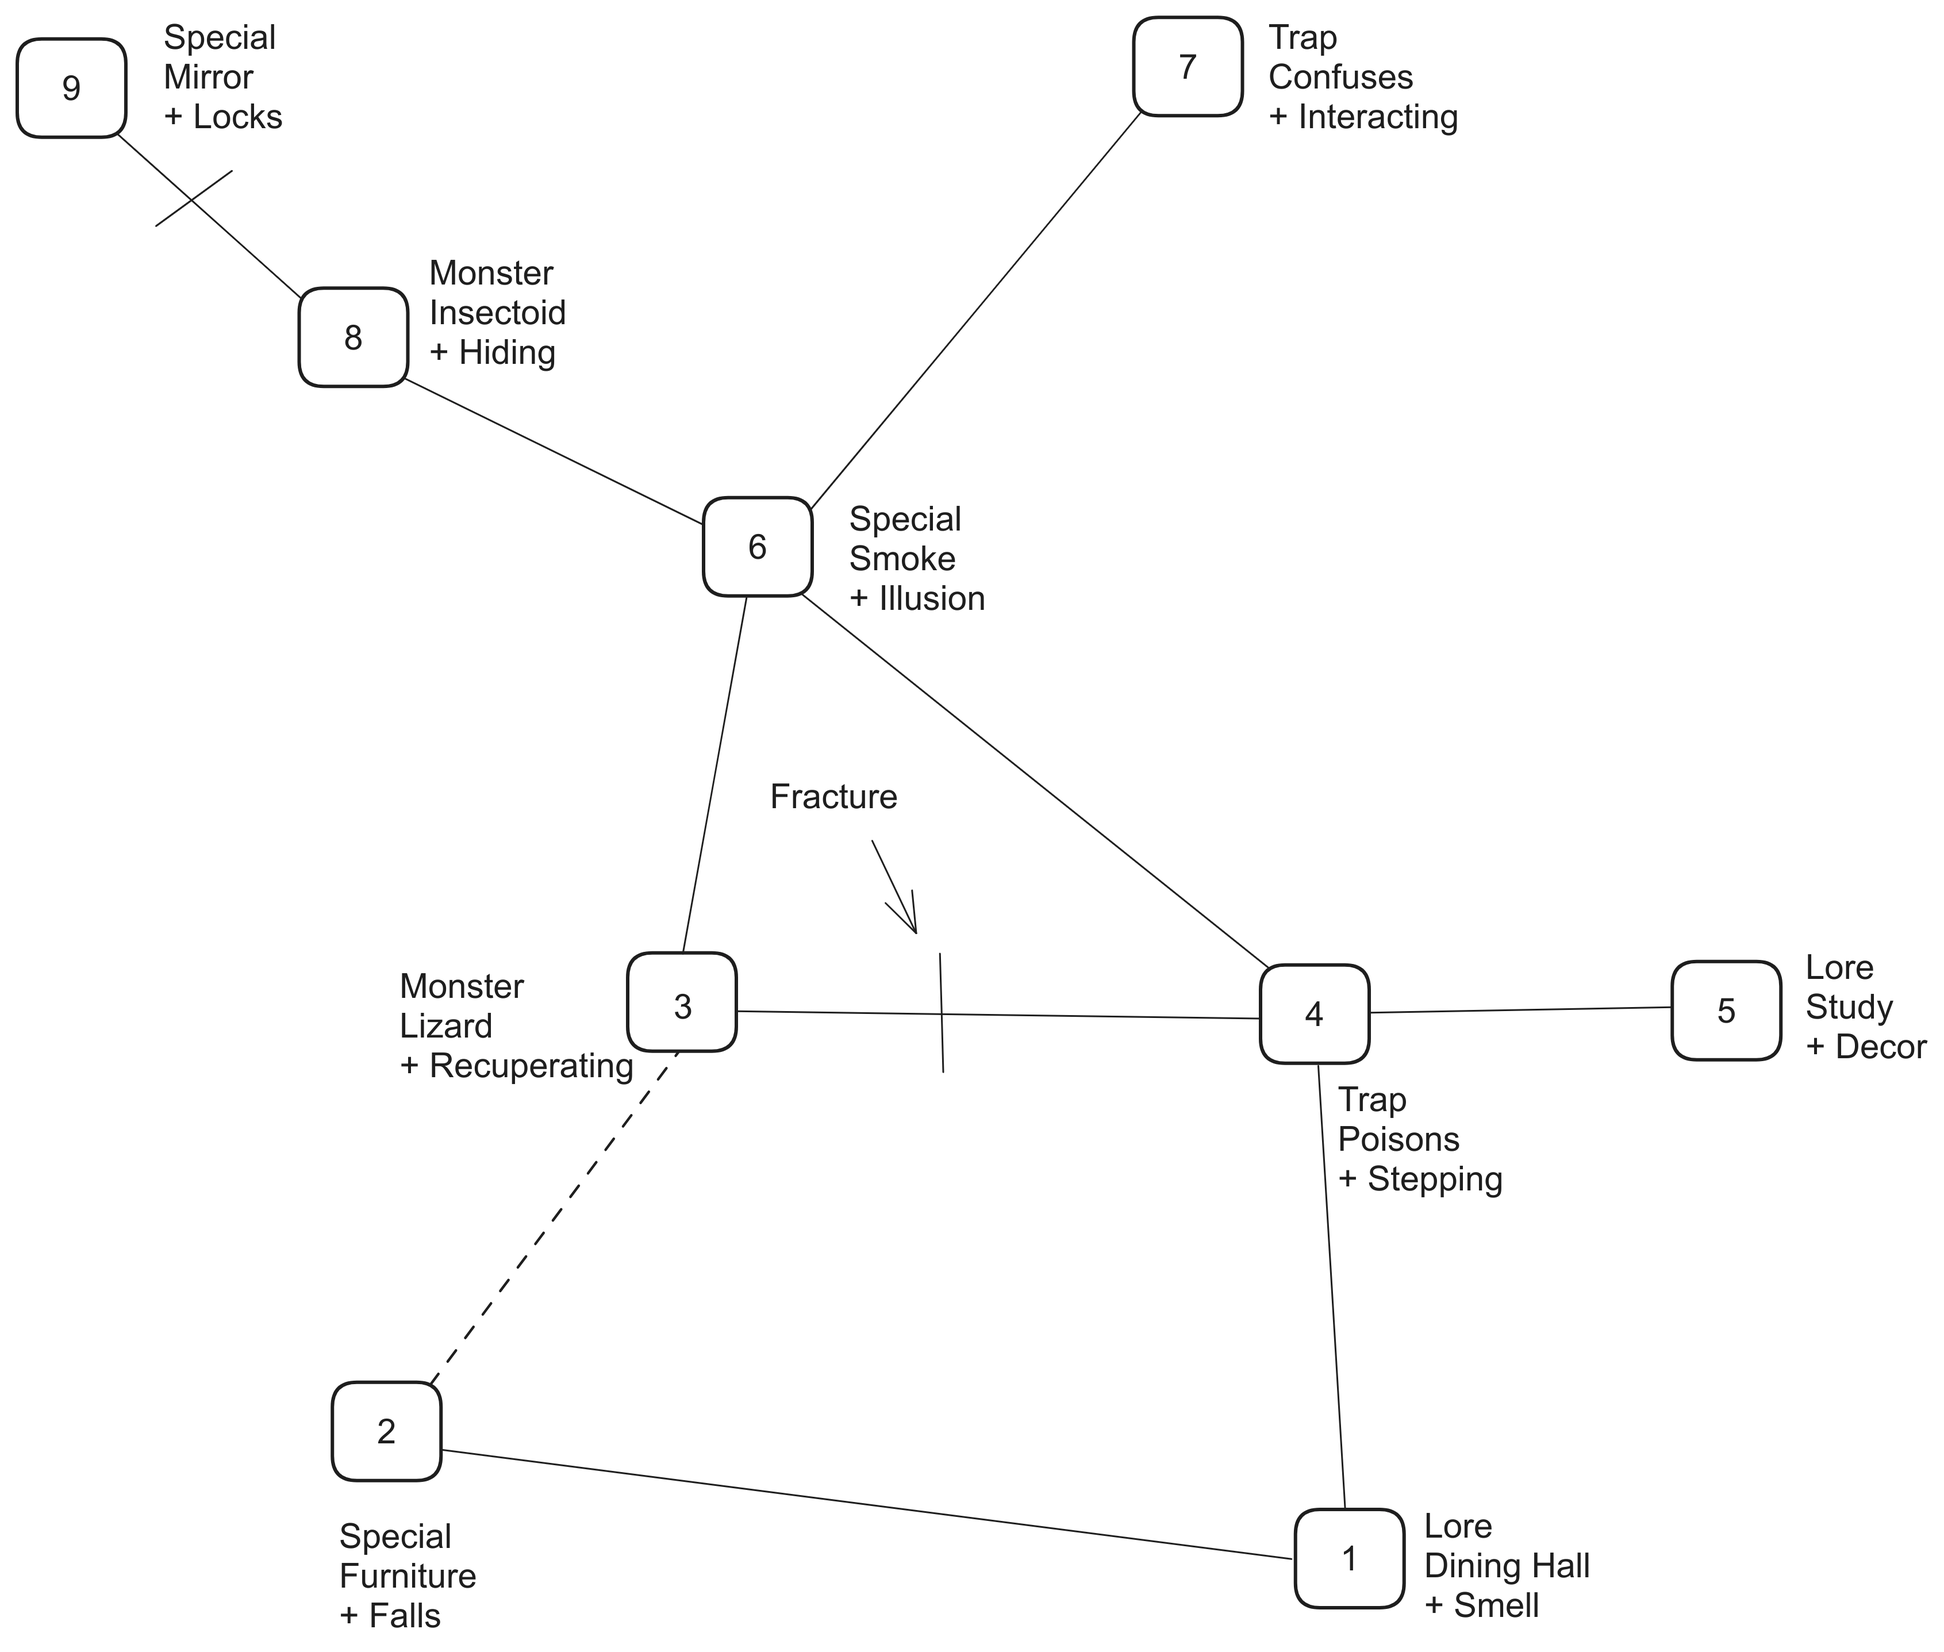
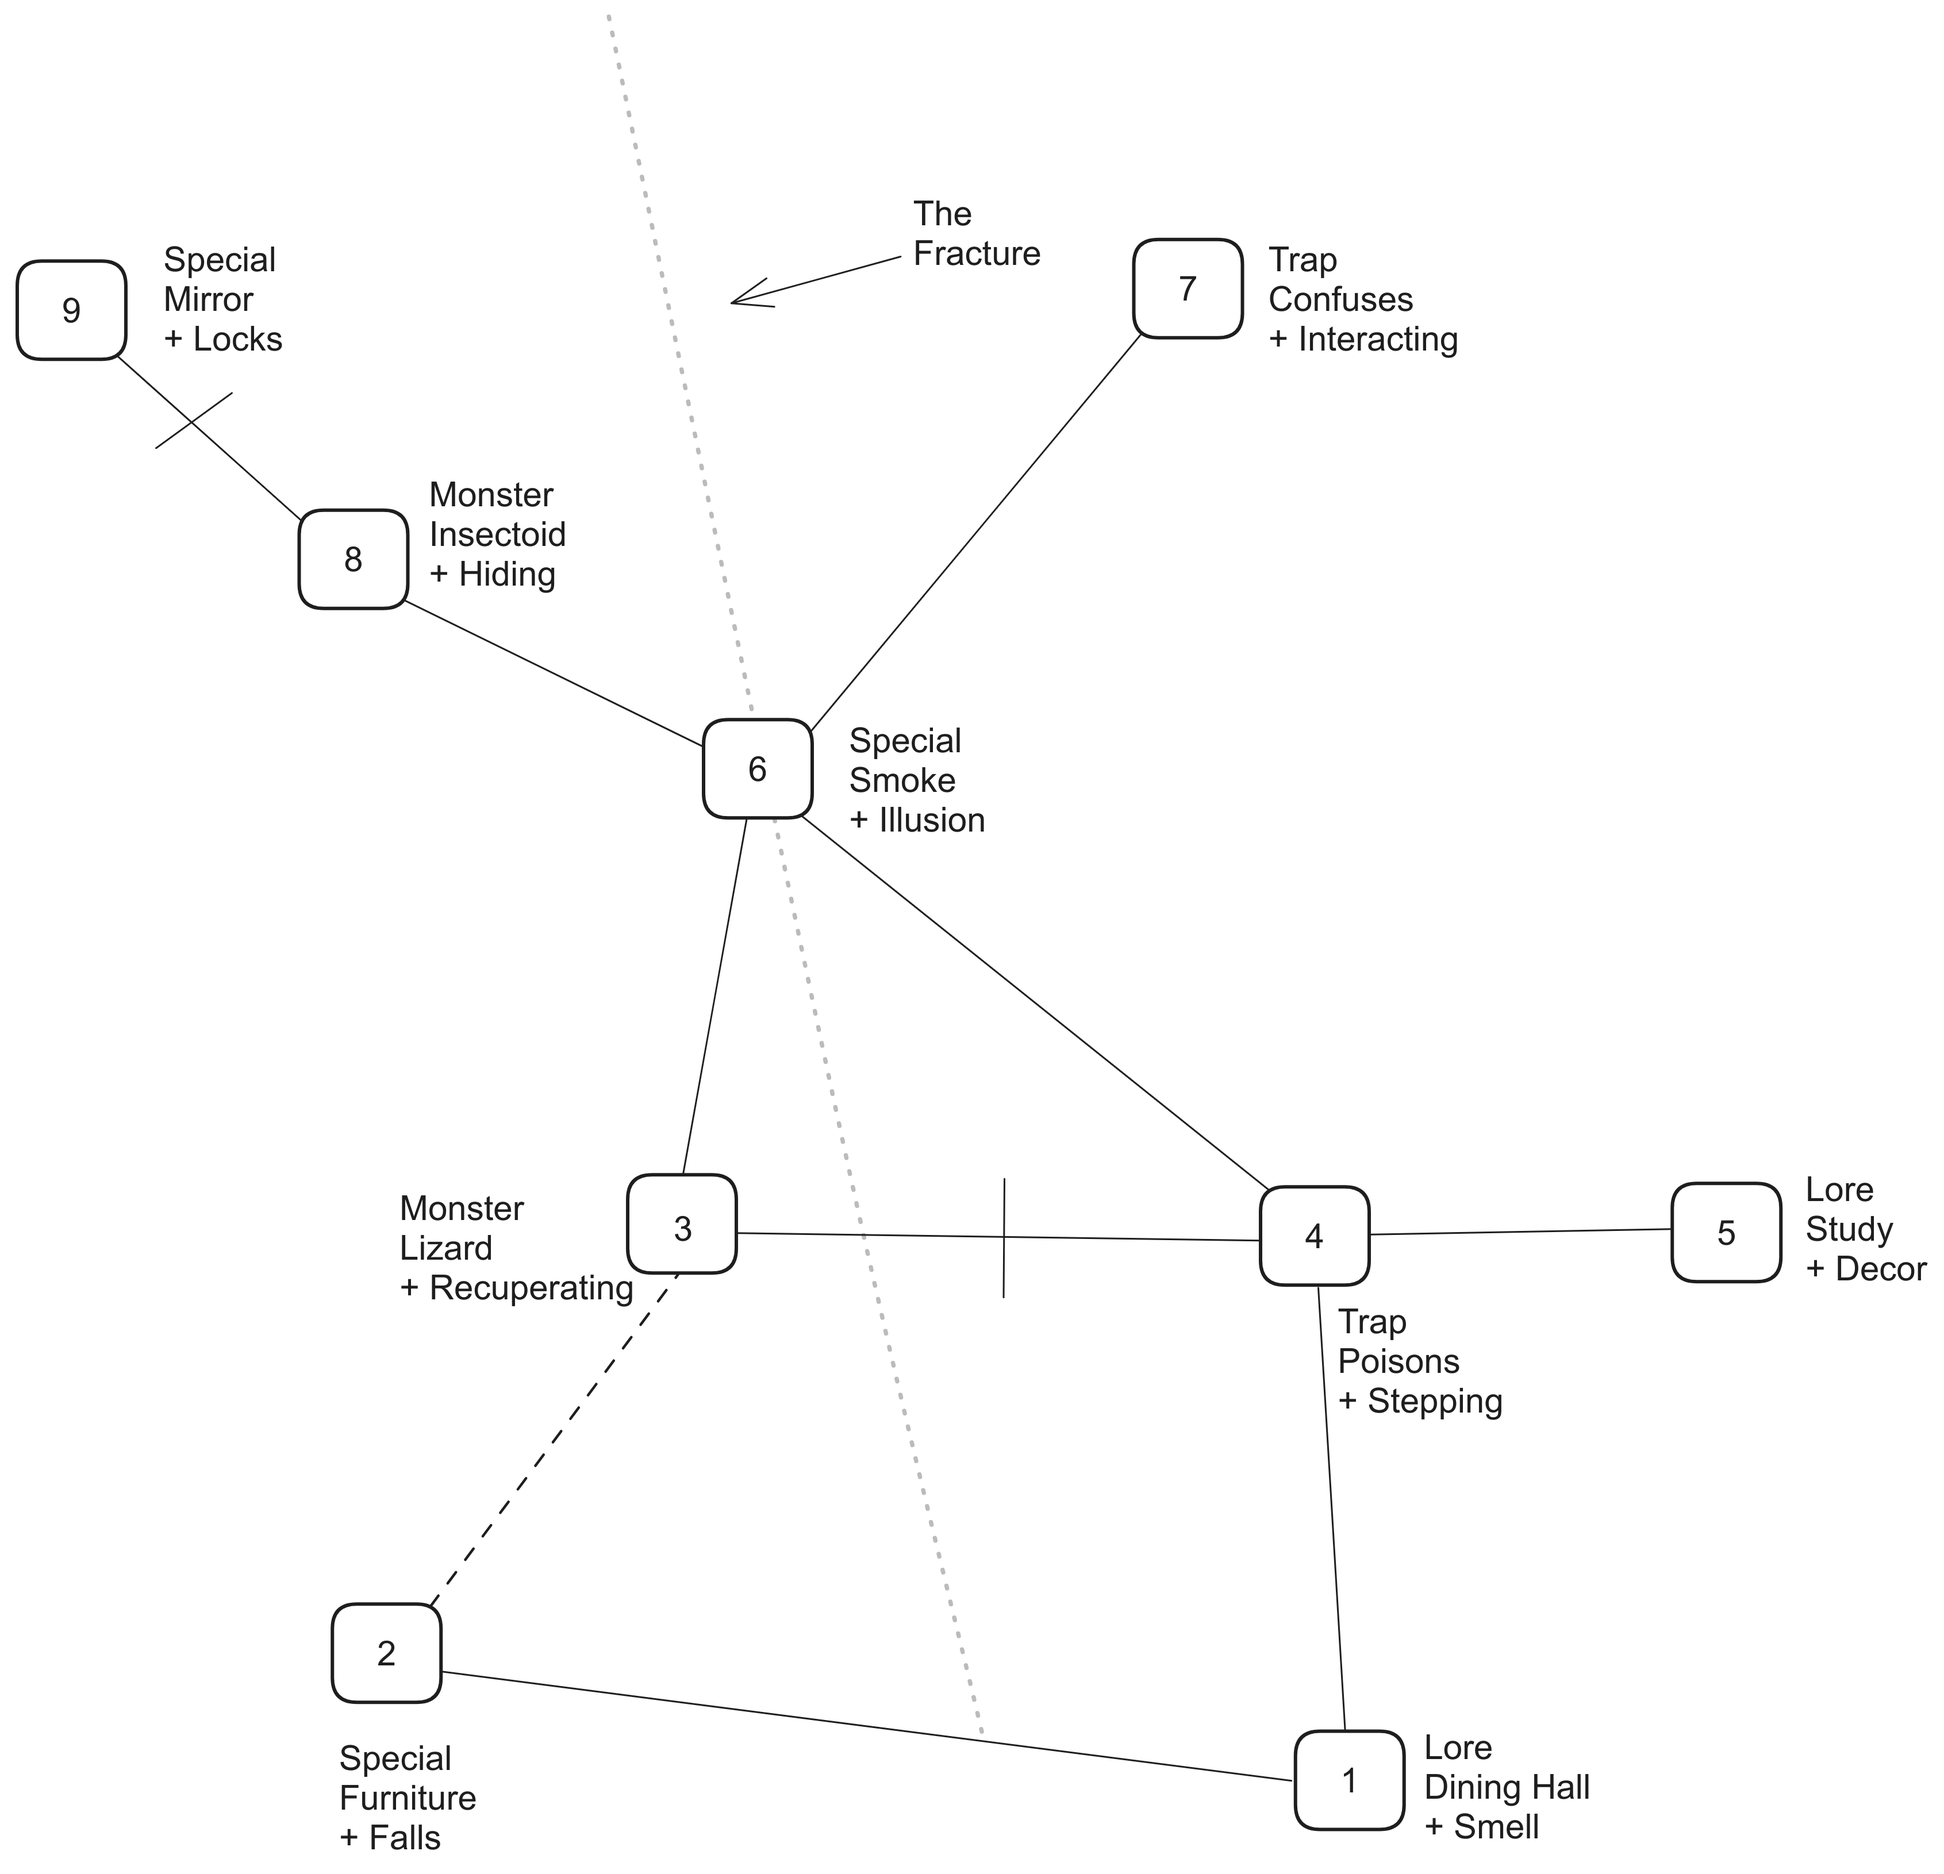
major updates

diff --git a/wip/2e/dungeon-seeds.md b/wip/2e/dungeon-seeds.md
@@ -390,8 +390,8 @@ _It was designed by an extremist cult of forest druids to house reality-altering
 Continuing on to the current inhabitants of our dungeon, we get the following results (rolling for _two_ factions):
 
 - **Denizens**: The creatures living here are _practical,_ yet _unimaginative_.
-- **Faction A**: Goal: _Destruction_. Obstacle: _opposition_.
-- **Faction B**: Goal: _Redemption_. Obstacle: _tradition_.
+- **Faction A**: Goal: _Destruction_. Obstacle: _Opposition_.
+- **Faction B**: Goal: _Redemption_. Obstacle: _Tradition_.
 
 ### What do we know about the creatures and Factions that occupy the dungeon?
 
@@ -399,7 +399,7 @@ _The current denizens of this dungeon are the descendants of the original Factio
 
 ### What are each Factions trying to achieve, and what stands in their way?
 
-**The Crimson Path** would like to destroy their former brethren the **Azure Legion**, but are cowed by their opponent's prowess in battle. The Azure Legion feel great shame over the actions of their forebears, and believe that their redemption can only be achieved by way of finding the temple's original artifact. Unfortunately ancient custom decrees that no Azure member may seek the lost Relic.
+**The Crimson Path** would like to destroy their former brethren the **Azure Legion**, but are cowed by their opponent's prowess in battle. The Azure Legion feel great shame over the actions of their forebears, and believe that their redemption can only be achieved by way of finding and destroying the temple's hidden artifact. Unfortunately an ancient custom decrees that no one wearing the Azure cloth may seek the lost Relic.
 
 ### Dungeon Theme
 
@@ -407,15 +407,32 @@ With some idea on the history, purpose, and denizens of the dungeon, we finally 
 
 _Nestled within a dense, shrouded forest lies a temple made entirely of petrified wood. Built by a fanatical cult to protect an ancient Relic, its entrance is concealed by a false menhirs. Eventually the cult became divided, splitting into two opposed Factions. When their dueling rituals collided the temple was shattered, with each Faction taking one half. Today the descendants of these factions still vie for control, destruction and redemption, but are hindered by power imbalances and ancient tradition._
 
-_The Crimson Path believe that if the original Relic were recovered, they might bend its power to destroy their the Azure Legion forever. However every attempt to plumb the temple's depths has been countered by their former brethren._
+_The Crimson Path believe that if the original Relic were recovered, they might bend its power to destroy their the Azure Legion forever. However every attempt to plumb the temple's depths has been countered by their former brethren. A recent attack has left many of their number dead, and the remaining members have since fled the temple to regroup._
 
-_The Azure Legion feel a great sense of shame over their ancestor's actions believe that if the original Relic were recovered, they might bend its power to heal the Azure Legion, joining the temple as well as the two clans. Unfortunately, a long-standing tradition prohibits any members from seeking the Relic, so as to avoid the mistakes of the past._
+_The Azure Legion feel a great sense of shame over their ancestor's actions believe that if the original Relic were destroyed, the temple would be healed again and their shame expunged. Unfortunately, a long-standing tradition prohibits any members from seeking the Relic, so as to avoid the mistakes of the past._
 
 _In the center of the temple (between **3** and **4**) a massive crack (the Fracture) splits the dungeon in two, and acts as a sort of demilitarized zone. Both Factions realize that only death lies across its threshold._
+
+_Hidden deep within the dungeon is a Relic called the **Woodturn**. It is capable of petrifying trees, wood, or other plant life through mere contact. If not properly contained it could turn an entire forest into a wasteland!_
+
+#### Hooks
+
+- The Crimson Path has made a public offer of 300gp apiece for the safe retrieval of an "ancient relic" deep within the temple. The party may find some respite among the Red Robes, but otherwise the characters will be on their own in dealing with any "opposition." 
+- The party is contacted by an agent of the Azure Legion, acting in secret. The party is to find and destroy the **Woodturn**, an item of great power lost somewhere in the temple. The mission is to remain a secret, and any Factions of Red _or_ Blue will likely stand against them. The characters are to be paid 1000gp (total) for evidence of the Relic's destruction.
 
 ### Map
 
 [![Click Me!](/img/2e/dungeon-seed-example-1.webp "Click to embiggen"){:height="60%" width="60%"}](/img/2e/dungeon-seed-example-1.webp)
+
+### Entrance: Circle of Menhirs
+
+A small circle of 10' tall **stones** are set in a circle atop a **grassy** hill. White **trees** surround the glade on all sides.
+
+- **Grass**: A patch in the center is browner than the rest.
+  - A trap door is concealed underneath. Petrified wooden steps lead down to **1**.
+- **Stones**: Moss-covered, with thin, ruined writing in an ancient script.
+  - An expert in such matters can still determine that the stones are many centuries old.
+- **Trees**: Petrified, and as white as stone.
 
 ### 1 - Dining Hall
 
@@ -460,14 +477,14 @@ A Basilisk sleeps on a nest built atop a slab of **wall** on the East side of th
 
 **Trap**: _Poisons_. _Stepping_.
 
-The withered **corpse** of a man is stretched atop a large table. A **sconce** on the West wall burns twin blue flames over the West exit. Open **cupboards** stand at knee-height on the North wall.
+The withered **corpse** of a man is stretched atop a large butcher block. A **sconce** on the West wall burns twin blue flames over the West exit. Open **cupboards** stand at knee-height on the North wall.
 
-- **Corpse**: Dressed in the Red Robes of the Crimson Path. 
+- **Corpse**: Dressed in the Red Robes of the Crimson Path. Looks at least two weeks dead.
   - There are no obvious wounds or markings, save for a green crust around the man's lip.
-  - The Azure Legion have placed the corpse here as a warning to any that cross the Fracture.
-- **Sconce**: Entering or exiting through the West exit releases a poison gas spray, dealing d4 STR damage to anyone in the room (save to avoid losing consciousness).
-- **Cupboards**: Bare. The arrangement of the cupboards and the table make obvious that this room was once a communal kitchen. 
-  - One has a false back that can be depressed, disabling the poison gas trap. 
+  - He carries a white dagger made of petrified wood (d8).
+- **Sconce**: Passing beneath the flames releases a poison gas spray into the room, dealing d4 STR damage to anyone nearby (save to avoid losing consciousness).
+- **Cupboards**: Bare. The arrangement of the cupboards and the block seem to imply that this room was once a communal kitchen. 
+  - One of the cupboards has a false back that can be depressed, disabling the poison gas trap for one minute.
 
 ### 5 - Study
 
@@ -478,12 +495,19 @@ Bookshelves wrap around every inch of wall, heaps of **books** stacked on dusty 
 - **Books**: Untouched for decades. Clearing the dust from the spines reveal all manner of subjects.
   - Nearly every word in every book has been blacked out in stark black.
 - **Shelves**: Despite the lack of furniture, the room looks like it may have been a well-used study at one time.
-- **Candelabra**: Unusual design, worth at least 1000gp (four slots, brittle). 
+- **Candelabra**: Unusual design, worth 500gp (four slots, brittle). 
   - The candles (5 uses) are still accessible (assuming they can be reached). When lit, they produce around 20ft of darkness that is impenetrable my non-magical light. They were placed here as a final insult against the old study.
 
-### 6 - 
+### 6 - Hall of Ash
 
 **Special**: _Smoke_. _Illusion_.
+
+Swirling **smoke** fills the air in a ceaseless typhoon of ash and embers, obscuring the exits. The outline of a white **circle** is burnt into the ground in the center of the room.
+
+- **Smoke**: Emits no smell. Magical in nature, it was produced when the temple broke in two.
+  - 
+- **Circle**: A remnant of the Faction's colliding rituals. Mostly inert.
+  - Stepping within the circle triggers a vision of the **Woodturn** turning an entire forest into petrified wood.
 
 ### 7 - 
 
@@ -498,3 +522,5 @@ A _Burrowing Horror_, hiding in wait beneath ___.
 ### 9 - 
 
 **Special**: _Mirror_. _Locks_.
+
+- **Relic**:
